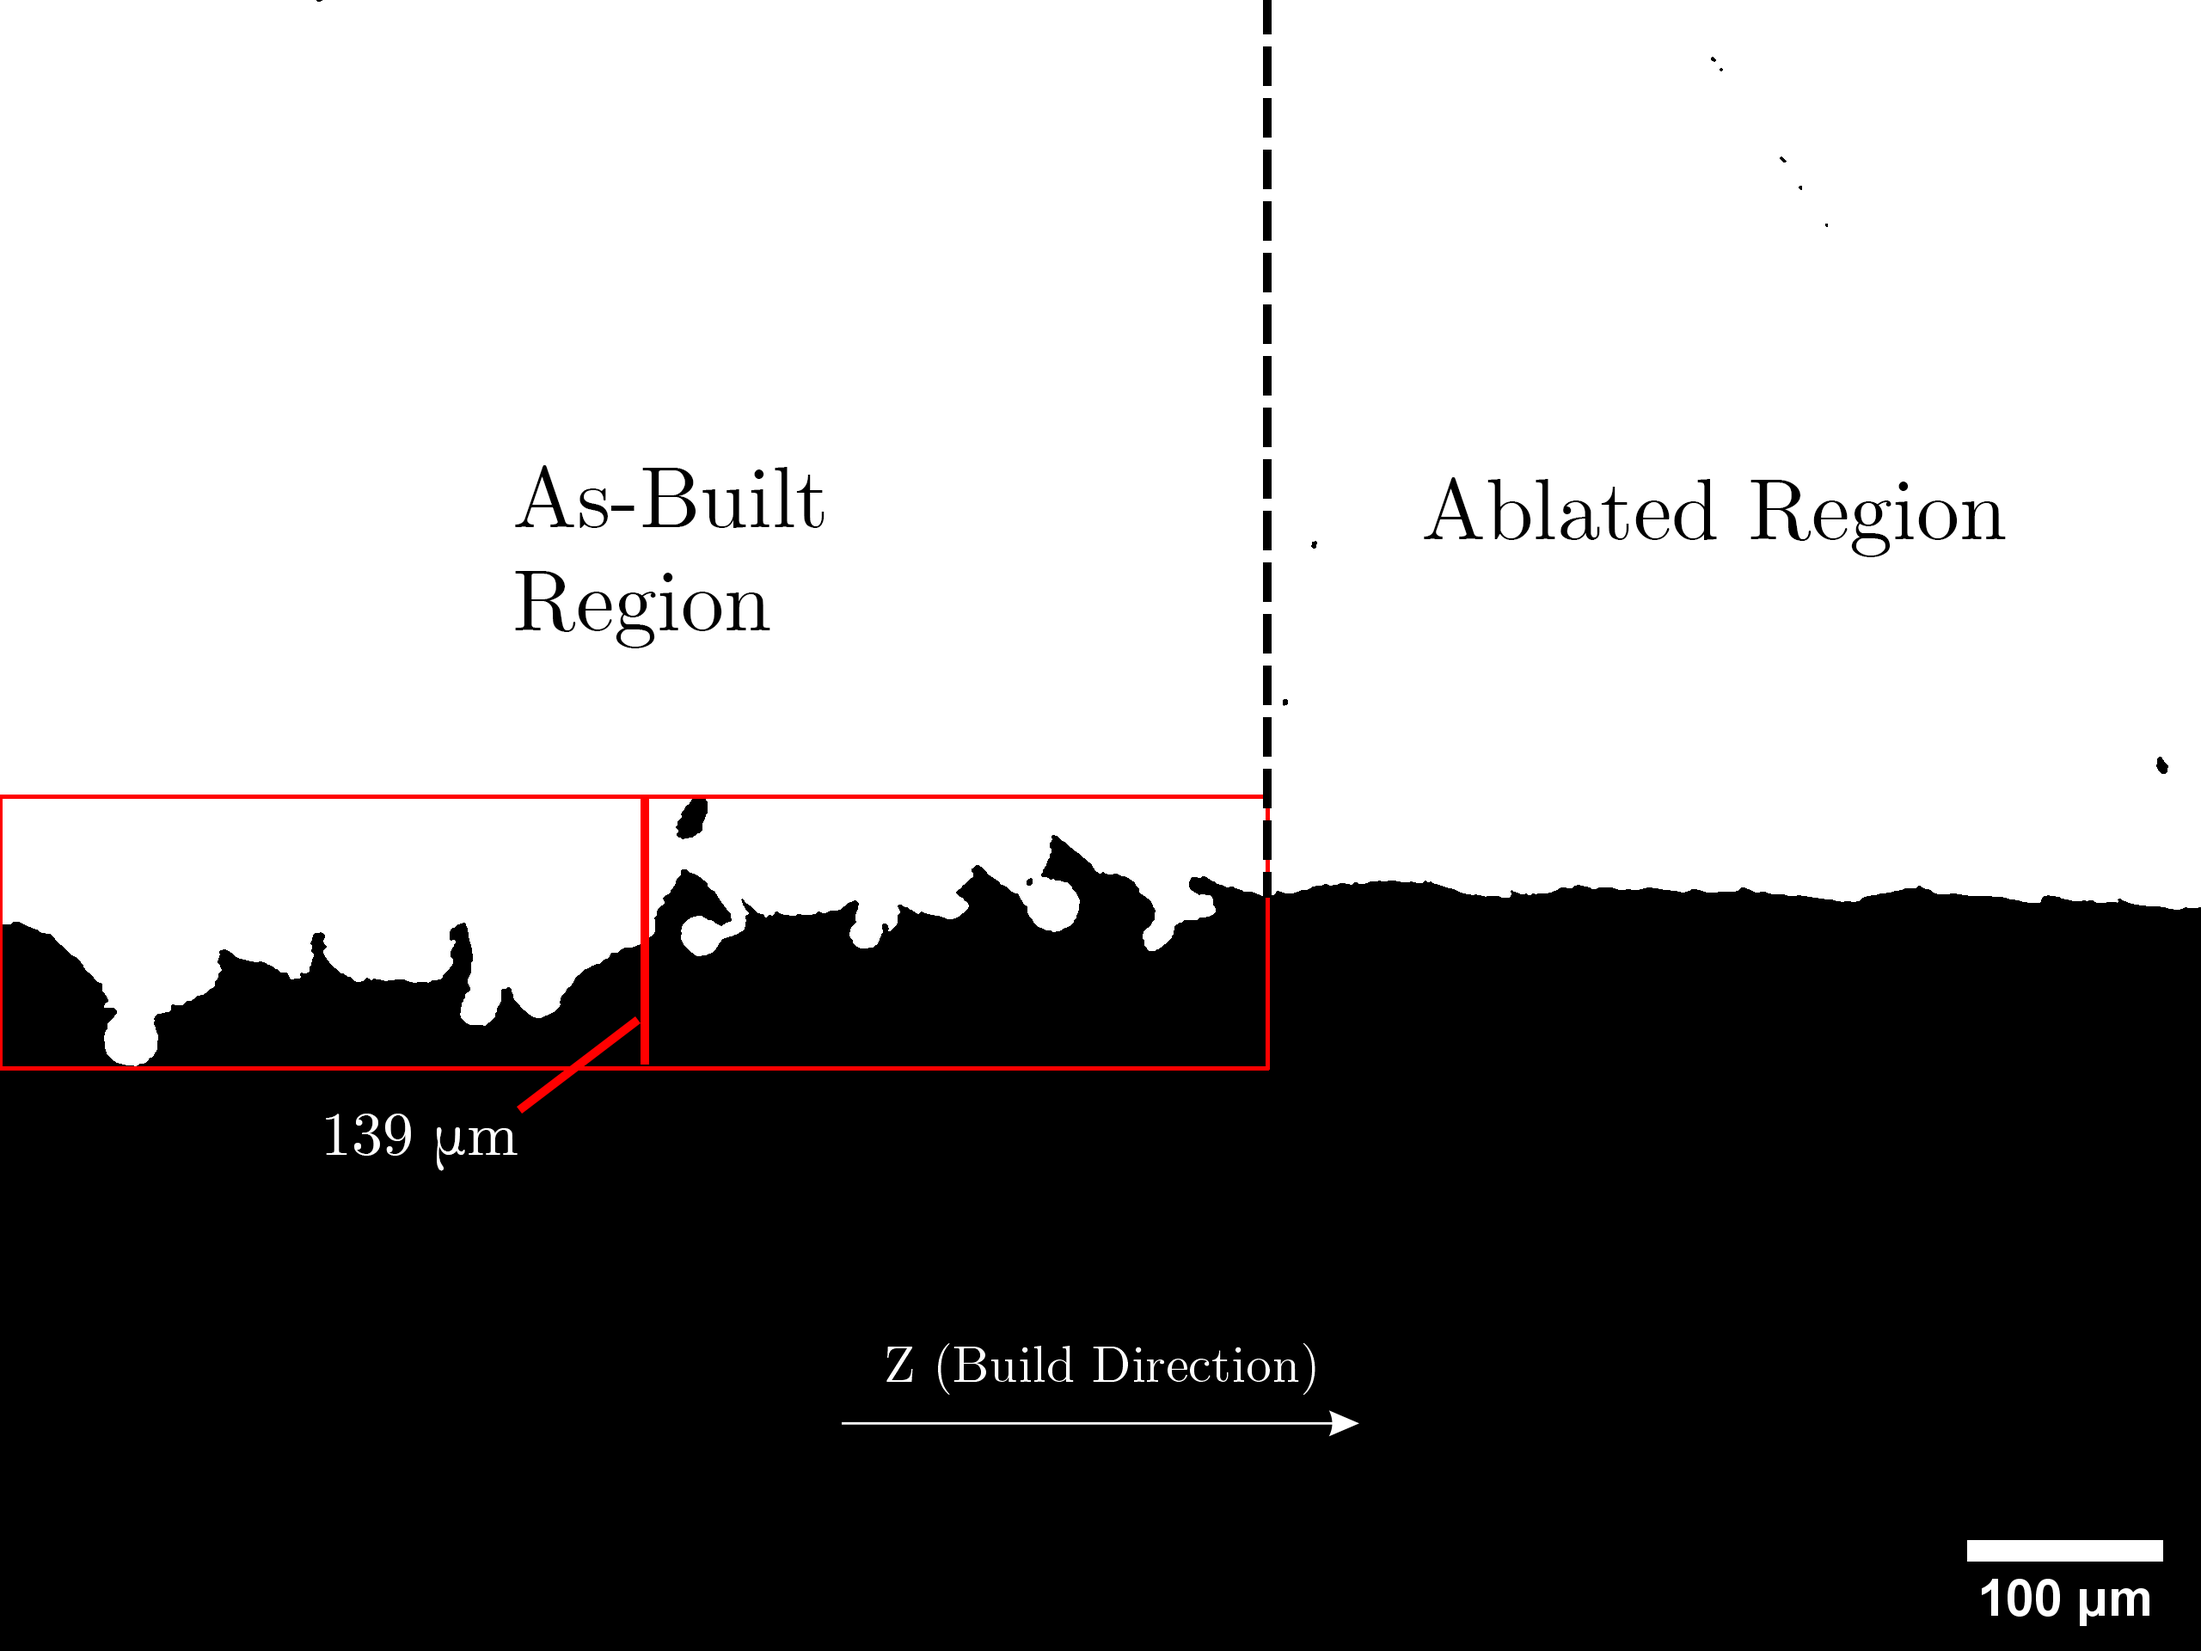
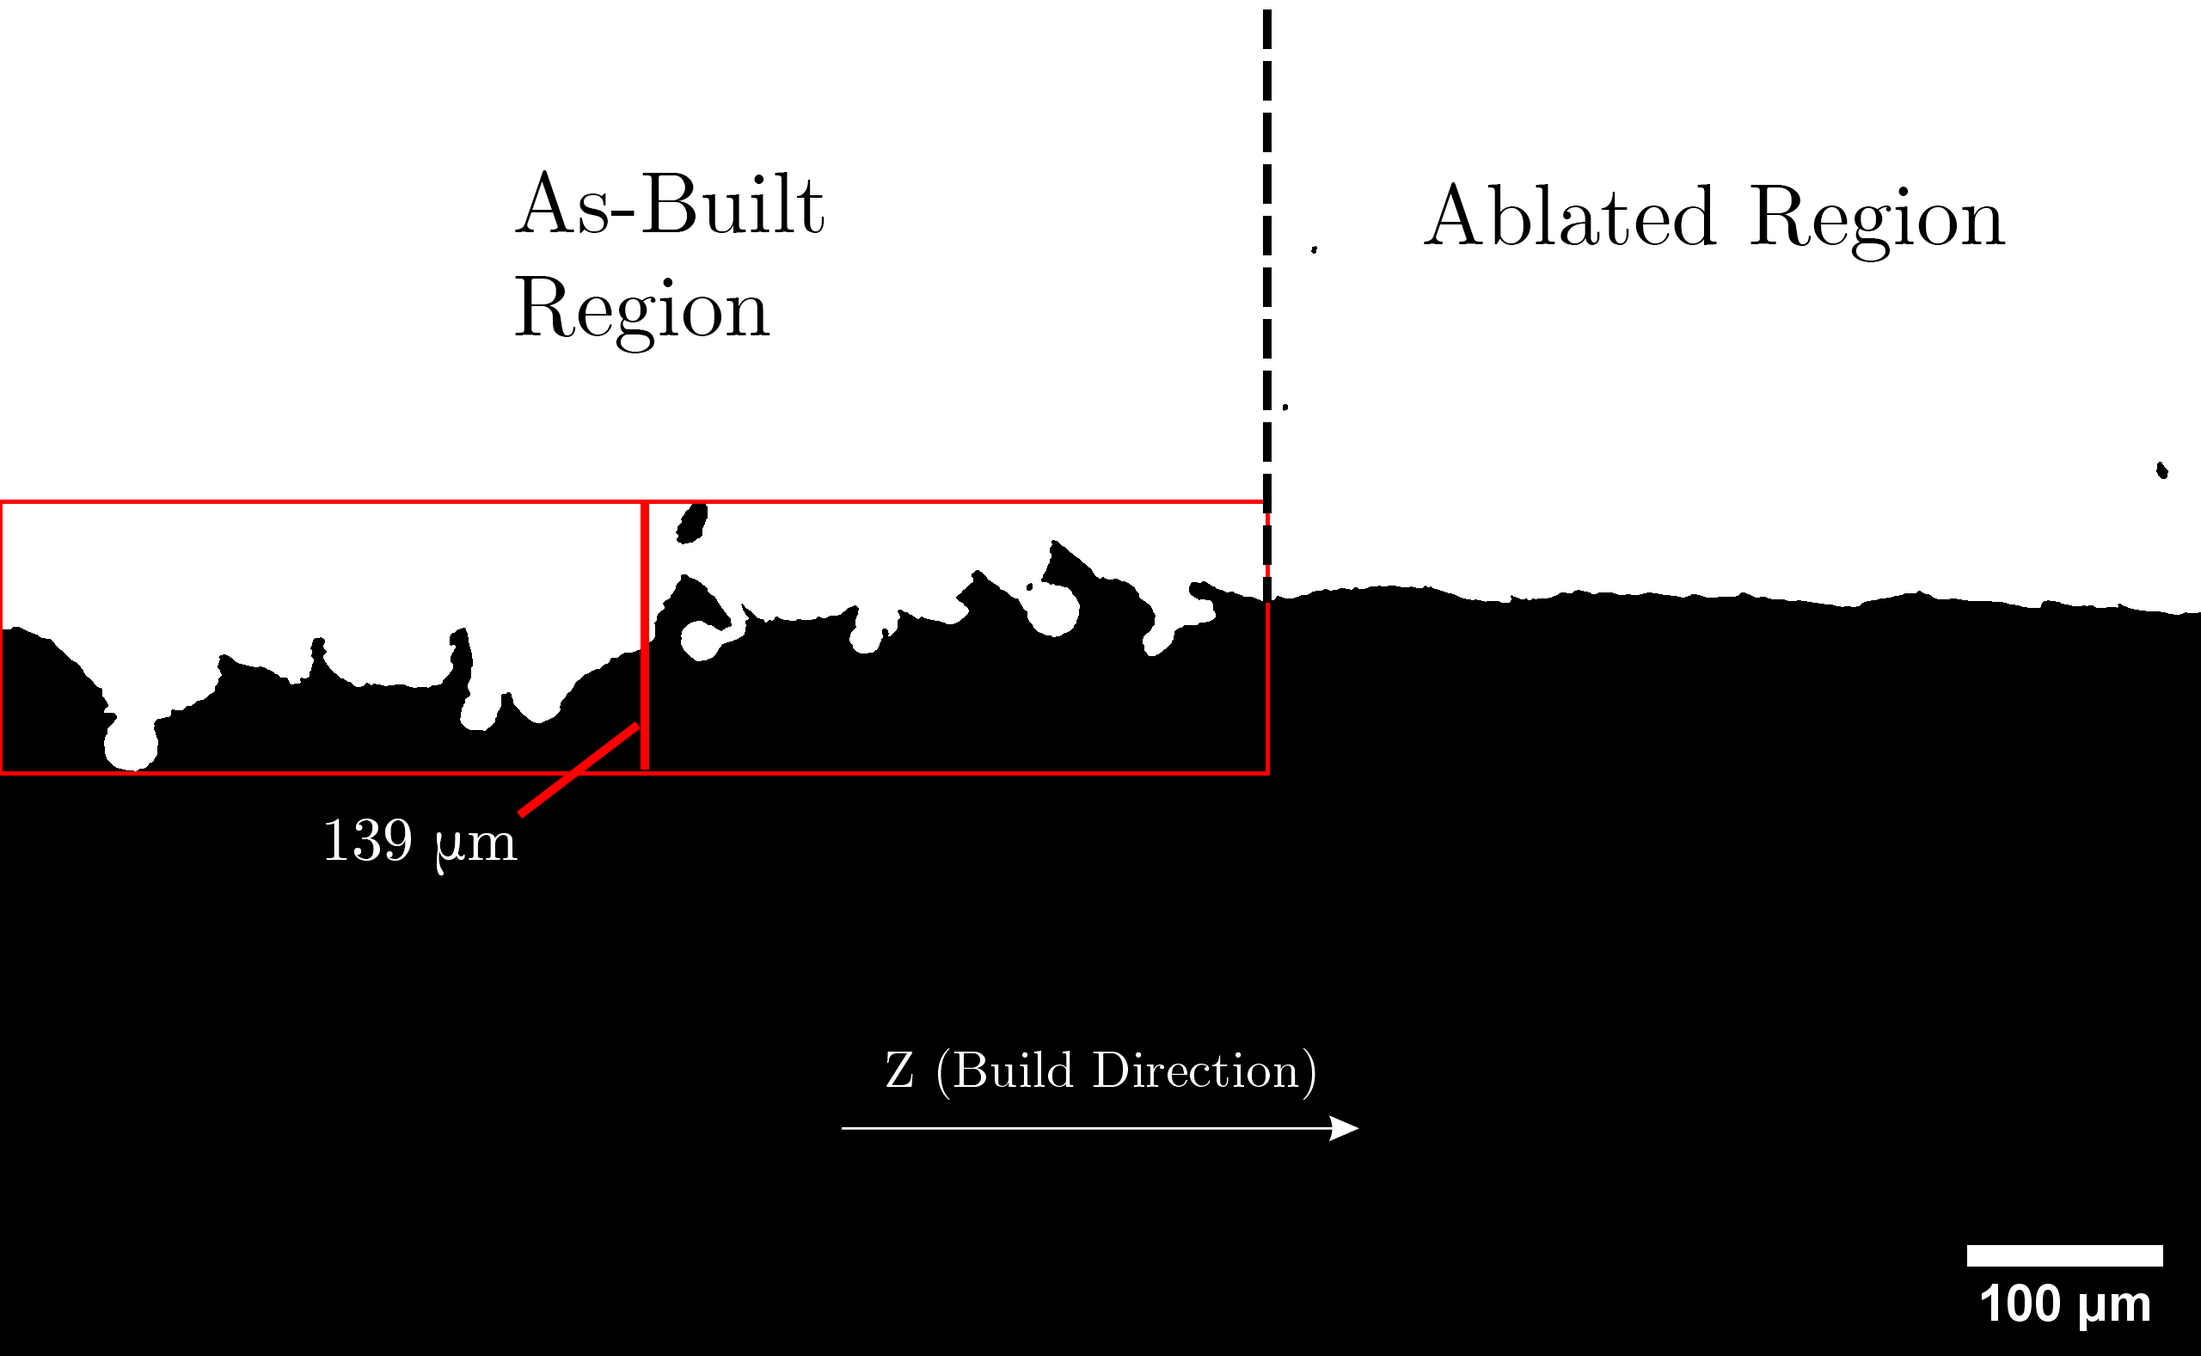
New Layout

diff --git a/assets/css/theme.css b/assets/css/theme.css
@@ -1,60 +1,179 @@
 :root {
-    --bg-gradient-start: #0a192f;
-    --bg-gradient-end: #2a3f5f;
-    --text-color: #e6f1ff;
-    --link-color: #64ffda;
-    --header-bg: rgba(7, 18, 39, 0.8);
-    --border-color: #1d3557;
-  }
-  
-  body {
-    background: linear-gradient(135deg, var(--bg-gradient-start) 0%, var(--bg-gradient-end) 100%);
-    color: var(--text-color);
-    font-family: -apple-system, BlinkMacSystemFont, "Segoe UI", Roboto, Helvetica, Arial, sans-serif;
-    line-height: 1.6;
-    min-height: 100vh;
-    margin: 0;
-    padding: 0;
-  }
-  
-  a {
-    color: var(--link-color);
-    text-decoration: none;
-  }
-  
-  a:hover {
-    text-decoration: underline;
-  }
-  
+  --bg-gradient-start: #0a192f;
+  --bg-gradient-end: #2a3f5f;
+  --text-color: #e6f1ff;
+  --link-color: #64ffda;
+  --link-hover-color: #9bf6e4;
+  --header-link-color:#c1dbdc;
+  --heading-color: #c1dbdc;
+  --header-bg: rgba(7, 18, 39, 0.95);
+  --border-color: #1d3557;
+  --card-bg: rgba(26, 32, 44, 0.4);
+  --card-hover: rgba(26, 32, 44, 0.6);
+}
+
+body {
+  background: linear-gradient(135deg, var(--bg-gradient-start) 0%, var(--bg-gradient-end) 100%);
+  color: var(--text-color);
+  font-family: -apple-system, BlinkMacSystemFont, "Segoe UI", Roboto, Helvetica, Arial, sans-serif;
+  line-height: 1.6;
+  min-height: 100vh;
+  margin: 0;
+  padding: 0;
+  width: 100%;
+}
+
+a {
+  color: var(--link-color);
+  text-decoration: none;
+  transition: color 0.2s ease;
+}
+
+a:hover {
+  text-decoration: none;
+  opacity: 0.8;
+}
+
+header a {
+  color: var(--header-link-color);
+}
+
+.portfolio-section h2 {
+  color: var(--section-title-color);
+}
+
+.project-card h3 a {
+  color: var(--link-color);
+}
+
+.project-card h3 a:hover {
+  color: var(--link-hover-color);
+}
+
+.wrapper {
+  display: flex;
+  gap: 2rem;
+  max-width: 90%;
+  width: 90%;
+  margin: 0 auto;
+  padding: 20px;
+}
+
+header {
+  position: sticky;
+  top: 20px;
+  height: calc(100vh - 40px);
+  flex: 0 0 300px;
+  background-color: var(--header-bg);
+  border-radius: 10px;
+  padding: 20px;
+  backdrop-filter: blur(5px);
+  box-shadow: 0 4px 6px rgba(0, 0, 0, 0.1);
+  overflow-y: auto;
+}
+
+header img {
+  max-width: 100%;
+  border-radius: 10px;
+  margin-bottom: 1rem;
+}
+
+section {
+  flex: 1;
+  min-width: 0;
+  width: 100%;
+}
+
+
+.portfolio-grid {
+  display: flex;
+  gap: 2rem;
+  margin-top: 2rem;
+  width: 100%;
+}
+
+.portfolio-section {
+  flex: 1;
+  min-width: 0;
+  background: var(--card-bg);
+  border-radius: 10px;
+  padding: 1.5rem;
+  box-shadow: 0 4px 6px rgba(0, 0, 0, 0.1);
+}
+
+.portfolio-section h2 {
+  color: var(--heading-color);
+  margin-top: 0;
+  margin-bottom: 1.5rem;
+  font-size: 1.5rem;
+}
+
+.project-card {
+  background: rgba(0, 0, 0, 0.2);
+  border-radius: 8px;
+  padding: 1rem;
+  margin-bottom: 1rem;
+  transition: background-color 0.2s ease;
+}
+
+.project-card:hover {
+  background: var(--card-hover);
+}
+
+.project-card h3 {
+  margin-top: 0;
+  margin-bottom: 0.75rem;
+  font-size: 1.1rem;
+}
+
+.project-card img {
+  width: 100%;
+  border-radius: 6px;
+  margin-bottom: 0.75rem;
+}
+
+.wrapper > section {
+  max-width: none;
+}
+
+@media screen and (max-width: 1400px) {
   .wrapper {
-    max-width: 960px;
-    margin: 0 auto;
-    padding: 20px;
-    box-shadow: 0 0 20px rgba(0, 0, 0, 0.1);
+    max-width: 95%;
+    width: 95%;
+  }
+  
+  .portfolio-grid {
+    flex-wrap: wrap;
+  }
+  
+  .portfolio-section {
+    flex: 1 1 calc(50% - 1rem);
+    min-width: 300px;
+  }
+}
+
+@media screen and (max-width: 768px) {
+  .wrapper {
+    flex-direction: column;
+    width: 100%;
+    max-width: 100%;
+    padding: 10px;
   }
   
   header {
-    background-color: var(--header-bg);
-    border-right: 1px solid var(--border-color);
-    padding: 20px;
-    backdrop-filter: blur(5px);
+    position: relative;
+    height: auto;
+    width: auto;
+    flex: none;
+    margin-bottom: 2rem;
+  }
+
+  .portfolio-grid {
+    flex-direction: column;
   }
   
-  h1, h2, h3, h4, h5, h6 {
-    color: #c1dbdc;
+  .portfolio-section {
+    flex: none;
+    width: auto;
   }
-  
-  code {
-    background-color: #112240;
-    color: #a8b2d1;
-    padding: 2px 4px;
-    border-radius: 4px;
-  }
-  
-  footer {
-    margin-top: 20px;
-    border-top: 1px solid var(--border-color);
-    padding-top: 10px;
-    font-size: 0.8em;
-  }
-  
+}

diff --git a/index.md b/index.md
@@ -1,49 +1,48 @@
-## Portfolio
 
----
-
-## Projects
-### [WHPSC Race Data Analysis](https://github.com/machin0r/WHPSC_Race_Data)
-
-The World Human Powered Speed Challenge takes place in Nevada each year, and the current world record is 89 mph. In this project I analyse the race data from 2001-2019, creating visualisations for the riders, bikes, and runs. 
-
-<img src="/images/portfolio_image.png?raw=true" alt="WHPSC visualisation example"/>
-
-### [In-Process Surface Finishing of L-PBF Produced Parts using a MOPA Pulsed Laser](https://doi.org/10.17638/03156896)
-
-Developed a novel in-situ surface finishing process for laser-based metal 3D printing, achieving 85% improvement in surface quality (~2 μm roughness) and 12x better dimensional accuracy (±0.01mm) than conventional systems. Built a custom L-PBF machine with a single pulsed laser source for building and ablation, and created machine learning models to optimise process parameters 
-
-<p align="center">
-  <img src="/images/ablation.png" width="400" alt="Image showing a part with ablated and non-ablated surfaces.">
-</p>
-
-
----
-
-## Hardware Interface Libraries
-
-### [SPI G4 Pulsed Laser Control](https://github.com/machin0r/SPI_G4_Pulsed_Laser_Control)
-
-Python library for controlling a SPI G4 pulsed laser.
-
-### [CIMSII Midas Ink Control](https://github.com/machin0r/CIMSII-Midas_Ink_Control)
-
-Python library for controlling a CIMS-II Midas ink recirculation system.
-
-### [Binder Jet Image Format Convertor](https://github.com/machin0r/Binder_Jet_Image_Convertor)
-
-Convert between binder jet image formats, with presets for common controllers.
-
----
-
-## Patents
-
-### [Semiconductor package produced by 3D printing - GB2627547](https://patents.google.com/patent/GB2627547A/)
-
-A 3D-printing technique for building advanced semiconductor packages with better cooling and electrical performance.
-
-### [Method of ink jetting to influence a microstructure of a powder layer - GB2628015](https://patents.google.com/patent/GB2628015A/)
-
-A 3D printing process that mixes different inks as they're deposited, enabling control over microstructure and material properties in the finished product.
-
----
+<div class="portfolio-grid">
+  <div class="portfolio-section">
+    <h2>Projects</h2>
+    
+    <div class="project-card">
+      <h3><a href="https://github.com/machin0r/WHPSC_Race_Data">WHPSC Race Data Analysis</a></h3>
+      <img src="/images/portfolio_image.png" alt="WHPSC visualisation example"/>
+      <p>The World Human Powered Speed Challenge takes place in Nevada each year, and the current world record is 89 mph. In this project I analyse the race data from 2001-2019, creating visualisations for the riders, bikes, and runs.</p>
+    </div>
+    
+    <div class="project-card">
+      <h3><a href="https://doi.org/10.17638/03156896">In-Process Surface Finishing of L-PBF Produced Parts</a></h3>
+      <img src="/images/ablation.png" alt="Image showing a part with ablated and non-ablated surfaces"/>
+      <p>Developed a novel in-situ surface finishing process for laser-based metal 3D printing, achieving 85% improvement in surface quality (~2 μm roughness) and 12x better dimensional accuracy (±0.01mm) than conventional systems.</p>
+    </div>
+  </div>
+  
+  <div class="portfolio-section">
+    <h2>Hardware Interface Libraries</h2>
+    
+    <div class="project-card">
+      <h3><a href="https://github.com/machin0r/SPI_G4_Pulsed_Laser_Control">SPI G4 Pulsed Laser Control</a></h3>
+      <p>Python library for controlling a SPI G4 pulsed laser.</p>
+    </div>
+    
+    <div class="project-card">
+      <h3><a href="https://github.com/machin0r/CIMSII-Midas_Ink_Control">CIMSII Midas Ink Control</a></h3>
+      <p>Python library for controlling a CIMS-II Midas ink recirculation system.</p>
+    </div>
+    
+    <div class="project-card">
+      <h3><a href="https://github.com/machin0r/Binder_Jet_Image_Convertor">Binder Jet Image Format Convertor</a></h3>
+      <p>Convert between binder jet image formats, with presets for common controllers.</p>
+    </div>
+    <h2>Patents</h2>
+    
+    <div class="project-card">
+      <h3><a href="https://patents.google.com/patent/GB2627547A/">Semiconductor package produced by 3D printing</a></h3>
+      <p>A 3D-printing technique for building advanced semiconductor packages with better cooling and electrical performance.</p>
+    </div>
+    
+    <div class="project-card">
+      <h3><a href="https://patents.google.com/patent/GB2628015A/">Method of ink jetting to influence a microstructure</a></h3>
+      <p>A 3D printing process that mixes different inks as they're deposited, enabling control over microstructure and material properties in the finished product.</p>
+    </div>
+  </div>
+</div>
